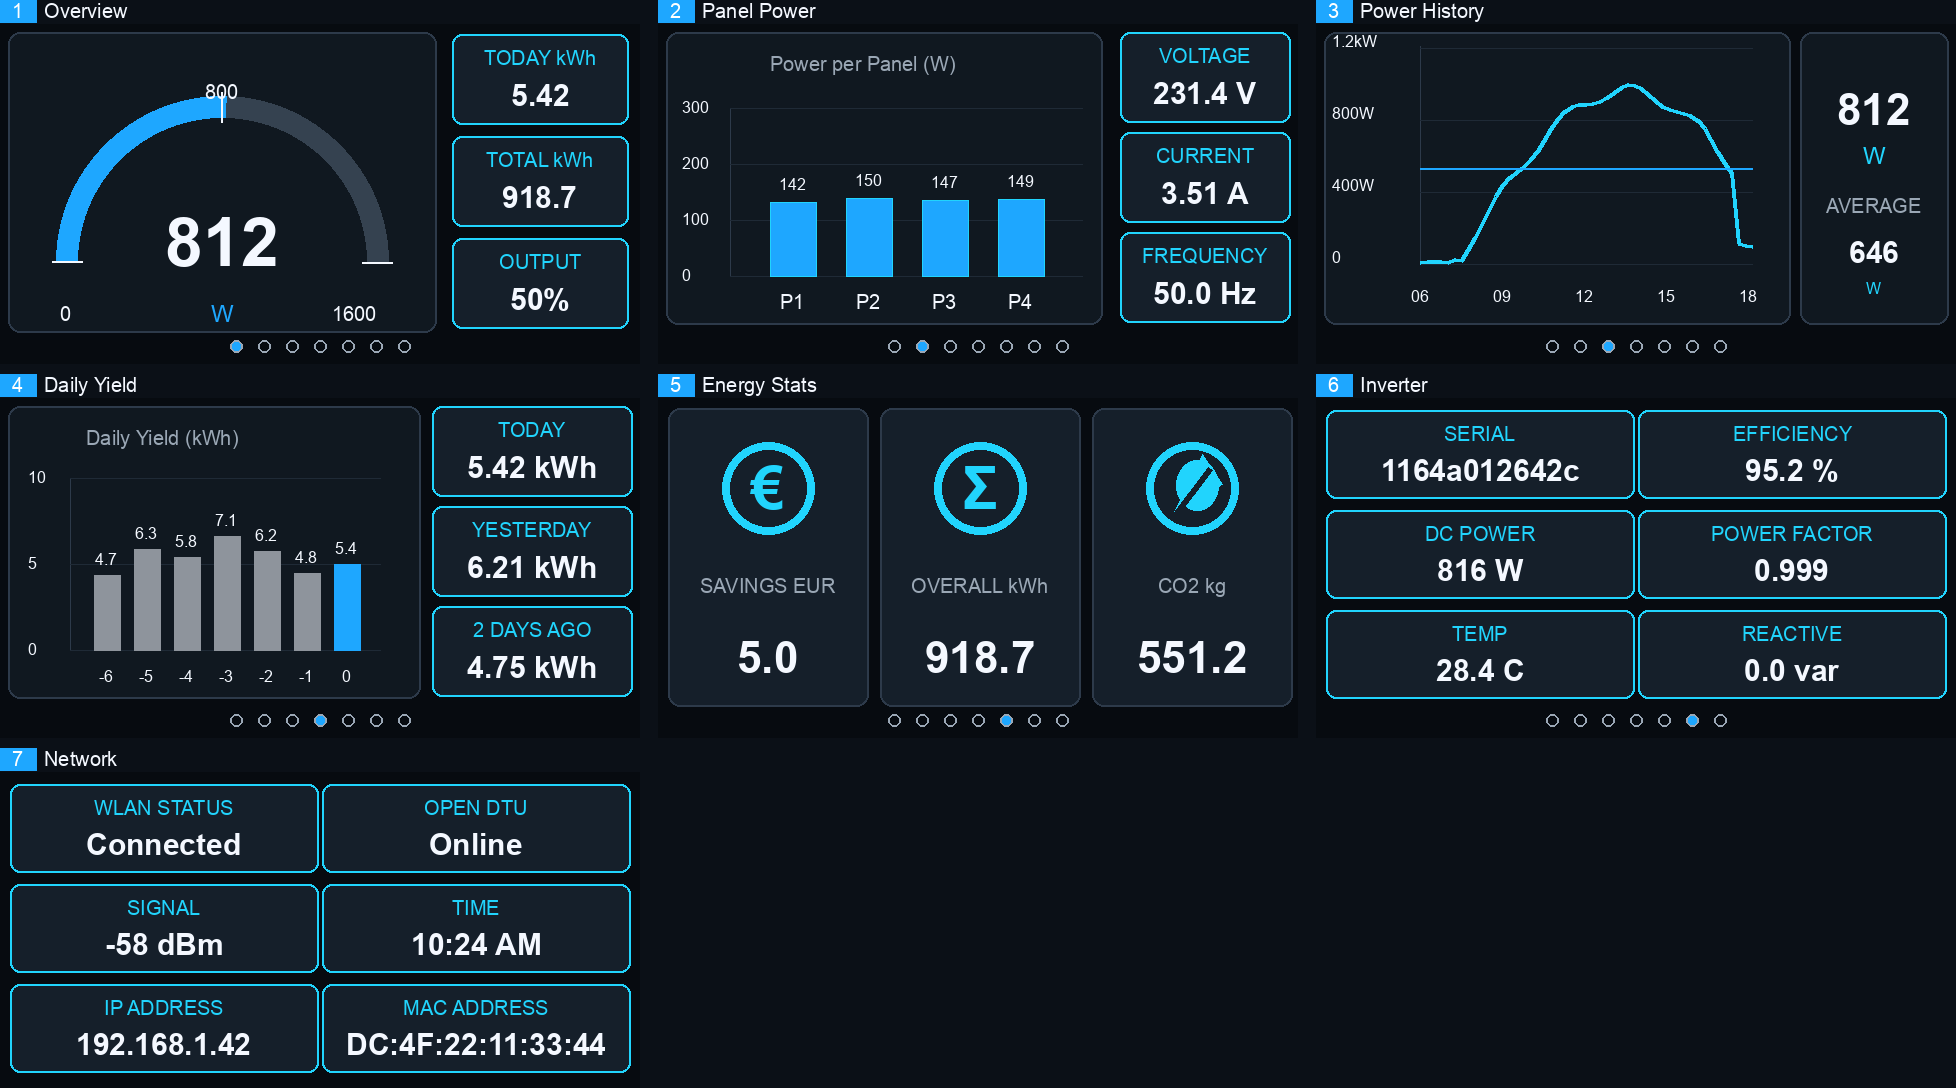
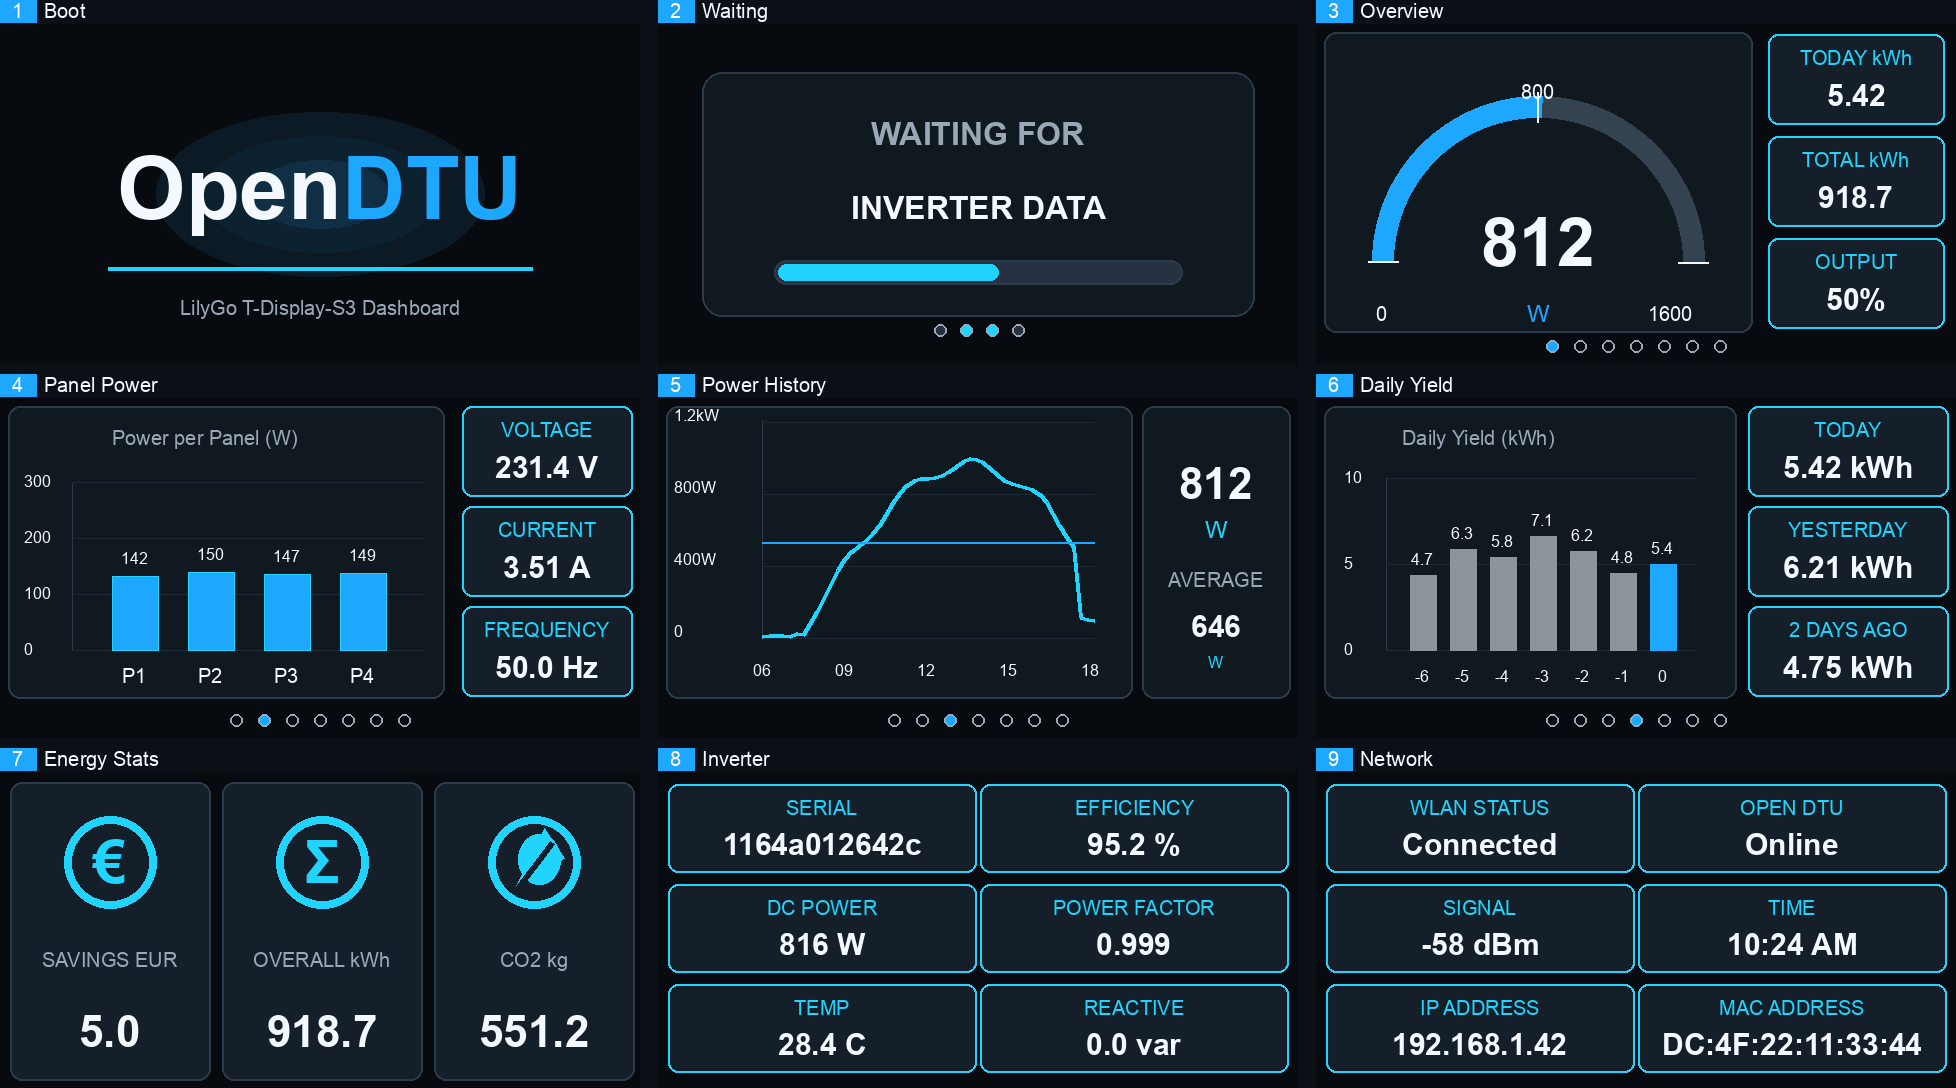
Prepare v1.0 release documentation

diff --git a/docs/lilygo-t-display-s3/releases/lilygo-t-display-s3-v1.0.md b/docs/lilygo-t-display-s3/releases/lilygo-t-display-s3-v1.0.md
@@ -1,10 +1,10 @@
-# LilyGo T-Display-S3 Dashboard v0.1.0
+# OpenDTU **LilyGo T-Display-S3 Dashboard** v1.0
 
 Initial public release of the OpenDTU LilyGo T-Display-S3 dashboard fork.
 
 This release is based on OpenDTU and adds a modern local display dashboard for the LilyGo T-Display-S3 / ESP32-S3 board, plus an optional modern web dashboard at `/modern`.
 
-## Highlights
+## Features
 
 - Modern seven-page dashboard for the 320 x 170 LilyGo T-Display-S3
 - Dark dashboard UI with rounded tiles, gauges, charts, and clean typography
@@ -32,18 +32,81 @@ For the full compatibility list, see the official OpenDTU inverter overview:
 
 https://www.opendtu.solar/hardware/inverter_overview/
 
+## License
+
+This release follows the original OpenDTU license:
+
+- SPDX-License-Identifier: `GPL-2.0-or-later`
+- Full license text: [LICENSE](https://github.com/moschotto/OpenDTU/blob/feature/lilygo-t-display-s3/LICENSE)
+- Original license notice: [COPYING](https://github.com/moschotto/OpenDTU/blob/feature/lilygo-t-display-s3/COPYING)
+
 ## Screenshots
 
+The following simulated screenshots show the current dashboard layout including boot, waiting, and dashboard screens.
+
 ![LilyGo T-Display-S3 dashboard screens](https://raw.githubusercontent.com/moschotto/OpenDTU/feature/lilygo-t-display-s3/docs/lilygo-t-display-s3/screenshots/dashboard-screens-overview.png)
+
+Animated page transition demo:
+
+![LilyGo T-Display-S3 page slide demo](https://raw.githubusercontent.com/moschotto/OpenDTU/feature/lilygo-t-display-s3/docs/lilygo-t-display-s3/screenshots/dashboard-slide-demo.gif)
 
 ## Release Assets
 
 The release includes firmware binaries for the `lilygo_t_display_s3` PlatformIO environment:
 
-- `firmware.bin` - application firmware image
-- `firmware.factory.bin` - combined factory image including bootloader, partition table, boot app, and firmware
+- `firmware.factory.bin`
+- `firmware.bin`
 
-## Flashing
+## Which Binary Should I Flash?
+
+Use the same flashing approach as the original OpenDTU project. The LilyGo T-Display-S3 fork does not require a special flashing process.
+
+### Fresh Install / First Flash
+
+Use `firmware.factory.bin` for a clean first installation or when flashing the ESP32-S3 from scratch.
+
+`firmware.factory.bin` is the combined factory image. It contains:
+
+- bootloader
+- partition table
+- boot app
+- OpenDTU application firmware
+
+This is the safest choice when the board is empty, freshly erased, has an unknown firmware state, or when you use the ESP Web Flasher for an initial installation.
+
+### Update an Existing OpenDTU Installation
+
+Use `firmware.bin` when OpenDTU is already installed and you update through an existing OpenDTU-compatible setup, for example:
+
+- OpenDTU web update
+- OTA update
+- PlatformIO upload to an already correctly partitioned device
+
+`firmware.bin` contains only the application firmware and assumes that bootloader and partition table are already present and compatible.
+
+### ESP Web Flasher
+
+For ESP Web Flasher usage, use a Chromium-based browser and open the ESP Web Tools flasher:
+
+https://web.esphome.io/
+
+Follow the original OpenDTU flashing documentation for the general flashing process. The flashing procedure is the same for this LilyGo T-Display-S3 release:
+
+https://www.opendtu.solar/firmware/firmware/
+
+The recommended file for a first flash via ESP Web Flasher is:
+
+```text
+firmware.factory.bin
+```
+
+If the device already runs OpenDTU and the web flasher/update tool explicitly expects an application image, use:
+
+```text
+firmware.bin
+```
+
+## Local Build and Upload
 
 Build locally:
 
@@ -61,6 +124,7 @@ Use the actual serial port of your board if it differs.
 
 ## Notes
 
+- Back up your OpenDTU configuration before replacing an existing installation.
 - The display UI is currently tailored for one inverter.
 - The display panel screen is fixed to four PV channels.
 - The daily yield history starts empty after first flash or filesystem reset.

diff --git a/README_LILYGO_T_DISPLAY_S3.md b/README_LILYGO_T_DISPLAY_S3.md
@@ -4,6 +4,14 @@ This branch adds a modern dashboard experience for OpenDTU on the LilyGo T-Displ
 
 The goal is to provide a compact, readable, dark dashboard for balcony PV systems with one inverter and up to four PV input channels. The display UI is inspired by Grafana-style monitoring dashboards: dark panels, high-contrast values, gauges, charts, persistent themes, and smooth page navigation.
 
+## License
+
+This fork follows the original OpenDTU license:
+
+- SPDX-License-Identifier: `GPL-2.0-or-later`
+- Full license text: [LICENSE](LICENSE)
+- Original license notice: [COPYING](COPYING)
+
 ## Hardware Target
 
 - LilyGo T-Display-S3
@@ -51,9 +59,13 @@ The selected page and theme are saved and restored after reboot.
 
 ## Display Screens
 
-The following simulated screenshots show the current dashboard layout. They are generated from the UI design for documentation purposes and are not camera captures from the physical display.
+The following simulated screenshots show the current dashboard layout including boot, waiting, and dashboard screens. They are generated from the UI design for documentation purposes and are not camera captures from the physical display.
 
 ![LilyGo T-Display-S3 dashboard screens](docs/lilygo-t-display-s3/screenshots/dashboard-screens-overview.png)
+
+Animated page transition demo:
+
+![LilyGo T-Display-S3 page slide demo](docs/lilygo-t-display-s3/screenshots/dashboard-slide-demo.gif)
 
 Individual screen images:
 
@@ -187,6 +199,19 @@ The modern dashboard uses a dark, responsive layout with:
 - Modern typography and spacing
 
 ## Build and Upload
+
+## Flashing
+
+Use the same flashing approach as the original OpenDTU project. The LilyGo T-Display-S3 fork does not require a special flashing process.
+
+- ESP Web Flasher: [web.esphome.io](https://web.esphome.io/)
+- Original OpenDTU flashing documentation: [opendtu.solar/firmware/firmware](https://www.opendtu.solar/firmware/firmware/)
+
+Use `firmware.factory.bin` for a clean first installation or when flashing the ESP32-S3 from scratch. This is the recommended file for a first flash via ESP Web Flasher.
+
+Use `firmware.bin` when OpenDTU is already installed and you update through an existing OpenDTU-compatible setup, for example OpenDTU web update, OTA update, or PlatformIO upload to an already correctly partitioned device.
+
+## Local Build and Upload
 
 Build the LilyGo T-Display-S3 firmware with PlatformIO:
 

diff --git a/README.md b/README.md
@@ -12,6 +12,14 @@ This repository is a fork of the official OpenDTU project:
 - Original README: [github.com/tbnobody/OpenDTU#readme](https://github.com/tbnobody/OpenDTU#readme)
 - Official documentation: [OpenDTU docs](https://tbnobody.github.io/OpenDTU-docs/)
 
+## License
+
+This fork follows the original OpenDTU license:
+
+- SPDX-License-Identifier: `GPL-2.0-or-later`
+- Full license text: [LICENSE](LICENSE)
+- Original license notice: [COPYING](COPYING)
+
 ## Hardware Target
 
 - LilyGo T-Display-S3
@@ -59,9 +67,13 @@ The selected page and theme are saved and restored after reboot.
 
 ## Display Screens
 
-The following simulated screenshots show the current dashboard layout. They are generated from the UI design for documentation purposes and are not camera captures from the physical display.
+The following simulated screenshots show the current dashboard layout including boot, waiting, and dashboard screens. They are generated from the UI design for documentation purposes and are not camera captures from the physical display.
+
+![LilyGo T-Display-S3 page slide demo](docs/lilygo-t-display-s3/screenshots/dashboard-slide-demo.gif)
+
 
 ![LilyGo T-Display-S3 dashboard screens](docs/lilygo-t-display-s3/screenshots/dashboard-screens-overview.png)
+
 
 Individual screen images:
 
@@ -195,6 +207,19 @@ The modern dashboard uses a dark, responsive layout with:
 - Modern typography and spacing
 
 ## Build and Upload
+
+## Flashing
+
+Use the same flashing approach as the original OpenDTU project. The LilyGo T-Display-S3 fork does not require a special flashing process.
+
+- ESP Web Flasher: [web.esphome.io](https://web.esphome.io/)
+- Original OpenDTU flashing documentation: [opendtu.solar/firmware/firmware](https://www.opendtu.solar/firmware/firmware/)
+
+Use `firmware.factory.bin` for a clean first installation or when flashing the ESP32-S3 from scratch. This is the recommended file for a first flash via ESP Web Flasher.
+
+Use `firmware.bin` when OpenDTU is already installed and you update through an existing OpenDTU-compatible setup, for example OpenDTU web update, OTA update, or PlatformIO upload to an already correctly partitioned device.
+
+## Local Build and Upload
 
 Build the LilyGo T-Display-S3 firmware with PlatformIO:
 
